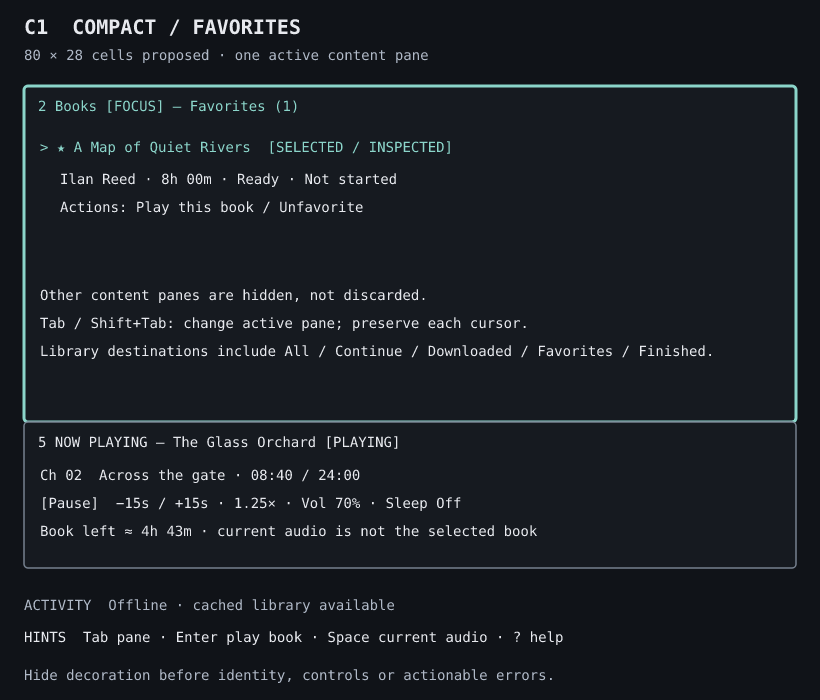
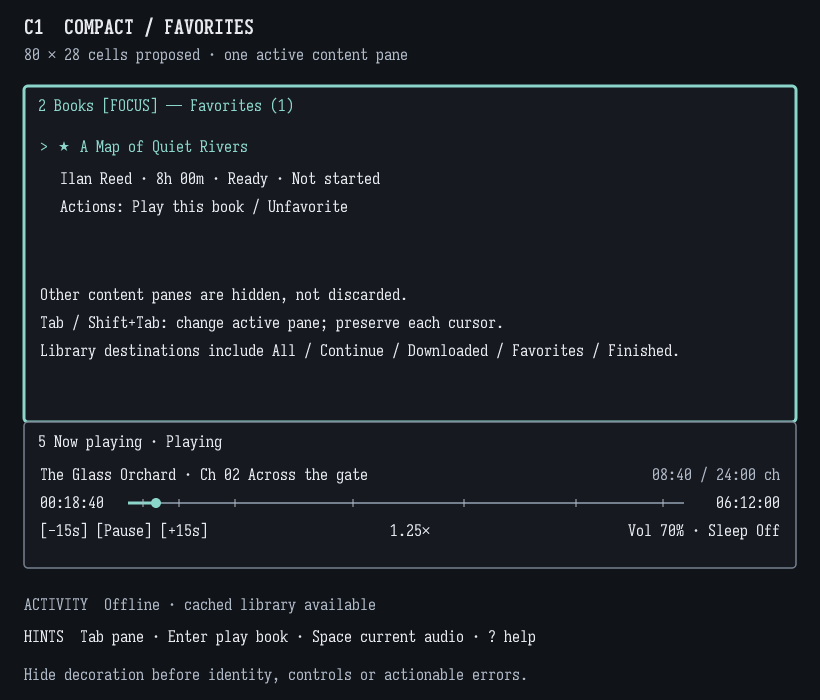
docs(design): fill player width and simplify book targeting

diff --git a/docs/design/README.md b/docs/design/README.md
@@ -1,7 +1,8 @@
 # First-review wireframes — #2
 
-**Approved:** wide/compact arrangement direction, MIT and the `colors`/Omarchy
-palette direction. **Not yet approved:** exact dimensions/breakpoints, minimum-size
+**Approved:** wide/compact arrangement direction, podmutt-style width-filling player,
+Details/Chapters following the highlighted book, Iosevka Slab recommendation, MIT and
+the `colors`/Omarchy palette direction. **Not yet approved:** exact dimensions/breakpoints, minimum-size
 layout, full key map, dialogs and detailed feature states. This PR does not close
 #2 or unblock production UI implementation.
 
@@ -26,18 +27,23 @@ implementation uses [semantic themes](theming.md), not these literal colors.
   correctness proof.
 - Focus is **2 Books**, identified by `[FOCUS]` as well as an accent border. The
   selected row has a `>` marker and highlight. Star has plain equivalent `[Fav]`.
-- **Rivers** is selected and inspected; **Orchard** is playing. Chapters and Details
-  label their inspected target; the player labels its loaded session independently.
-  A cursor in Chapters is a chapter selection, not a new library selection.
+- **Rivers** is highlighted; **Orchard** is playing. Details and Chapters follow the
+  highlighted book automatically and retain that target while focus moves into them.
+  Show book titles, not technical Selected/Inspected badges. No separate Inspect
+  action. A chapter cursor does not change the highlighted library book.
 - Library views: All, Continue Listening, Downloaded, Favorites and Finished.
   Downloads, Bookmarks and Settings/Help open dedicated views/overlays, not new
   permanent columns. The download count is a download queue, never a listening queue.
 - `Enter` in Books plays/resumes that book; `Space` addresses loaded audio, unless
-  an editor owns input. Selection alone never changes audio. Exact inspection
-  activation/follow-selection policy is still a review question below.
-- Favorite action in Books targets its selected book; from Details it targets that
-  explicitly labeled inspected book. Neither falls back to the currently playing
-  book. Stars do not replace progress or local-download state.
+  an editor owns input. Highlighting a book updates its details/chapters, never audio.
+  Late replies for an older highlighted book cannot replace the new book's content.
+- Favorite action targets the highlighted book, also named in Details. It never
+  falls back to current audio. Stars do not replace progress or local-download state.
+- Now Playing uses its full inner width, following podmutt: book/author/chapter left,
+  chapter timing right; then elapsed book time, a stretching book slider with chapter
+  ticks, and duration/speed-adjusted remaining time. Controls sit left below, speed
+  and volume centrally, sleep status right. The bar shows book progress (~5%), not
+  the chapter's ~36%; chapter timing is explicitly labeled. No decorative spectrum.
 
 ## C1 — Compact active content above player
 
@@ -51,10 +57,12 @@ implementation uses [semantic themes](theming.md), not these literal colors.
 - Keep one active content pane, with its title, filter/view and focus visible.
   Tab/Shift+Tab and numbered focus move to other panes; they do not discard state.
   Avoid a second independent navigation model just for narrow terminals.
-- Preserve focus identity, selection, inspected target, scroll origin and editor
+- Preserve focus identity, highlighted book and its chapter target, scroll origin and editor
   input when resizing. Resizing never starts/stops audio or abandons a modal.
-- Player reduces ornament/secondary timing before title, playing/paused status,
-  transport or actionable failures. Activity and hints remain separate rows.
+- Player uses the same width-filling book slider between elapsed and duration stamps.
+  Identity/chapter sits above it; transport left, speed center and volume/sleep right
+  below it. Omit author/adjusted remaining time before hiding identity or transport.
+  Activity and hints remain separate rows.
 - The SVG intentionally shows a cached offline Favorites view. Toggling a local
   favorite needs no provider call. An empty Favorites view offers a way back to
   All rather than looking like login or download failure.
@@ -62,9 +70,9 @@ implementation uses [semantic themes](theming.md), not these literal colors.
   promise. Below the eventual minimum, show a readable resize/quit message; keep
   audio state intact and preserve modal input. Do not clip silently.
 
-## F1 — Continue, inspect, explicitly switch
+## F1 — Continue, browse, explicitly switch
 
-![F1: launch, resume Orchard, inspect Rivers, explicitly switch and return](f1-main-flow.png)
+![F1: launch, resume Orchard, highlight Rivers, explicitly switch and return](f1-main-flow.png)
 
 [Open editable F1](f1-main-flow.svg)
 
@@ -72,7 +80,7 @@ implementation uses [semantic themes](theming.md), not these literal colors.
 |---|---|---|
 | F1.1 | Launch, including offline | Restore view/selection, never autoplay; no old-app discovery |
 | F1.2 | Play/resume Orchard explicitly | Current audio becomes Orchard at saved position/speed |
-| F1.3 | Select/inspect Rivers; favorite it | Details/chapters target Rivers; Orchard audio remains unchanged |
+| F1.3 | Highlight Rivers; favorite it | Details/chapters follow Rivers; Orchard audio remains unchanged |
 | F1.4 | Activate Rivers chapter | Explicitly label cross-book switch; confirmation policy still open |
 | F1.4a | No completed local audio | Offer download; never seek Orchard or falsely report success |
 | F1.5 | Commit switch | Preserve Orchard checkpoint; load Rivers at chapter, no smart rewind |
@@ -86,8 +94,8 @@ a real player failure. Cancel before committing a switch leaves current audio al
 
 1. Accept or adjust 144 × 42 wide and 80 × 28 compact examples? Validate a separate
    minimum-size frame before freezing breakpoints.
-2. Should Details/Chapters follow library selection, or require an explicit Inspect
-   action? Whichever wins must label its target and preserve it while switching focus.
+2. Follow-selection is now approved: Details/Chapters follow the highlighted book
+   without changing audio. Validate rapid selection/late replies and focus transitions.
 3. Cross-book chapter/bookmark activation: confirm, or use a clearly labeled explicit
    switch action? Do not silently apply a seek to unrelated current audio.
 4. Assign favorite, speed, download, sort, account and Settings actions without
@@ -102,10 +110,14 @@ Full key ownership follows the [interaction contract](../interaction-contract.md
 Do not allow letters, Space or numeric pane shortcuts to escape an active editor.
 Final approval requires the remaining #2 acceptance items, not just these sketches.
 
-## Preview export
+## Typography / preview export
 
-PNGs were exported using optional local `resvg-py 0.5.0` with DejaVu Sans Mono
+Use the recommended [Iosevka Slab terminal profile](typography.md) for a bookish
+monospace appearance; the application never changes terminal fonts. PNGs were
+exported using optional local `resvg-py 0.5.0` with Iosevka Slab v34.9.1 regular/bold
 explicitly supplied (this environment's system-font discovery is incomplete).
+Font files were downloaded for local preview only, not bundled in this repository.
+SVGs request Iosevka Slab with a monospace fallback; PNGs preserve the actual preview.
 This is not an application/CI dependency. Edit the SVG sources, then export each
 at its declared viewBox size using an SVG renderer with an available monospace font.
 Review the PNGs after text or geometry changes; never accept an empty-text render.
@@ -119,7 +131,7 @@ used instead. Native terminal-cell tests still belong to implementation.
 | J01/J02 | No startup autoplay; cached views and local audio work offline |
 | J03 | Keep selected BookID through filter/sort/refresh, including Favorites |
 | J04–J06 | Follow-up frames must distinguish transfer/preparation/errors; no fake Ready |
-| J07/J08 | Selection/inspection cannot switch audio; explicit switch checkpoints; pause-aware seeks |
+| J07/J08 | Highlighting updates details/chapters, never audio; stale replies ignored; explicit switch checkpoints; pause-aware seeks |
 | J09/J10 | Follow-up editor and sleep frames must retain input/target and show current timer |
 | J11/J12 | Completion/deleting audio does not remove favorites, bookmarks or history |
 | J13 | Every pane fits terminal-cell bounds; player visible; resize/back restores focus |

diff --git a/docs/design/typography.md b/docs/design/typography.md
@@ -1,0 +1,57 @@
+# Typography — a story-player terminal profile
+
+Status: maintainer approved the recommendation in the #2 / PR #43 design review.
+This is presentation guidance, not a font dependency or an implemented Settings option.
+
+## Recommended font: Iosevka Slab
+
+Use **Iosevka Slab**, the monospaced slab-serif family, for a more literary,
+bookish appearance while retaining aligned lists and terminal-cell geometry.
+Use regular for body/metadata and bold sparingly for book titles, focus and headings.
+Keep comfortable line spacing in the terminal profile; no forced pixel size in Taletty.
+
+Official sources:
+
+- [Iosevka project](https://github.com/be5invis/Iosevka)
+- [Downloads](https://github.com/be5invis/Iosevka/releases)
+- [Preview version v34.9.1](https://github.com/be5invis/Iosevka/releases/tag/v34.9.1),
+  `PkgTTF-IosevkaSlab-34.9.1.zip` (regular and bold used for these PNG exports).
+
+Iosevka is separately licensed under **SIL Open Font License 1.1**, not Taletty's
+MIT license. Fonts are not copied into the repository or shipped with the app.
+The SVG source requests `Iosevka Slab, monospace`; when the font is absent it falls
+back. PNG previews already contain the rendered lettering and need no font install.
+Do not substitute **Iosevka Etoile**: it is quasi-proportional, not the fixed-cell
+slab family recommended for the actual TUI.
+
+## Who controls the font?
+
+The terminal emulator renders the font. A standard Bubble Tea TUI cannot reliably
+set its own family, size or line spacing. There is no Taletty `font =` setting.
+Never emit terminal-specific font-changing commands, install fonts silently or
+rewrite a user's global terminal configuration.
+
+For an optional **Taletty terminal profile**:
+
+1. Install Iosevka Slab through your trusted OS font package or official downloads.
+2. Select the family in a separate terminal profile/window configuration.
+3. Choose a comfortable size and line spacing there; leave other profiles unchanged.
+4. Launch Taletty in that profile. Exact syntax depends on the user's terminal;
+   do not publish an untested universal terminal command.
+
+No profile is required. Any correctly functioning monospace font remains supported;
+Nerd Fonts are optional, not needed to read state or operate controls. A terminal
+profile is separate from Taletty's semantic `colors.toml` and Omarchy palette hook.
+
+## Typography inside Taletty
+
+- Hierarchy through book titles, modest bold emphasis, spacing and muted metadata.
+- Use plain book titles in Details/Chapters; do not expose developer-state badges
+  such as `SELECTED / INSPECTED`. Keep Playing/Paused state explicit.
+- A full-width player distributes identity, timing, slider, controls and status;
+  font choice must not be used to conceal wasted layout space or overflow.
+- Measure terminal cells, not pixels; avoid dependence on ligatures or proportional
+  character widths. Test Unicode/CJK/combining metadata, plain text, long titles and
+  missing glyphs independently of these rendered previews.
+- Focus, selection, favorite and failure state must remain readable without color,
+  italics or a particular font. Preserve `[Fav]` and text-state alternatives.

diff --git a/docs/interaction-contract.md b/docs/interaction-contract.md
@@ -24,13 +24,28 @@ from podmutt without validating audiobook content.
 
 The player always represents current audio, not the highlighted library book.
 Show title, chapter, progress, speed, remaining time and transport as space permits.
+Use the panel's full inner width, like podmutt: identity/chapter row, elapsed time
+and a width-filling book progress slider with duration/remaining time, then transport
+and settings. Distribute controls and secondary status across the bottom row rather
+than clustering every item at the left. Chapter ticks may mark the book slider;
+label chapter timing separately so book and chapter progress cannot be confused.
+Compact mode keeps the width-filling slider and sacrifices secondary timing first.
 No synthetic spectrum should imply a real audio visualization.
+
+Typography recommendation: [Iosevka Slab](design/typography.md), controlled by an
+optional terminal profile, never silently installed or switched by the application.
 
 ## Identity and targeting
 
 - Selected: the cursor in a list.
-- Inspected: book pinned for details/chapter inspection.
+- Details/Chapters target: follows the highlighted library book; no separate Inspect
+  action or pinned inspection mode. Keep that book stable while focus moves into
+  its chapters/details. These panes show its title, not an "Inspected" state label.
 - Playing: authoritative loaded playback session, including paused audio.
+
+The UI uses a cursor/highlight for selection and a Playing/Paused state for current
+audio; do not display technical "Selected / Inspected" badges. Late chapter/detail
+replies must match the current highlighted BookID, never overwrite a newer choice.
 
 Browsing never changes audio. Space targets current audio. Enter on a book
 plays/resumes that book; avoid using Enter as a second implicit pause toggle.

diff --git a/docs/product.md b/docs/product.md
@@ -59,8 +59,9 @@ never applied to deliberate chapter/bookmark seeks.
 ### Chapters and notes
 
 Keep chapter browsing and jumping. Permit inspecting another downloaded book's
-chapters without replacing current audio. Clearly distinguish selected, inspected,
-and playing books. A seek into a different book is an explicit playback switch.
+chapters without replacing current audio. Details and Chapters follow the
+highlighted book; Now Playing remains tied to the loaded audio. No separate Inspect
+action or technical selected/inspected badges. A seek into a different book is an explicit playback switch.
 Bookmarks save position, book identity, chapter context, and a note. Support
 paused creation, configurable pre-roll, edit/delete/jump, global search, and
 Markdown export as separate delivery slices.
